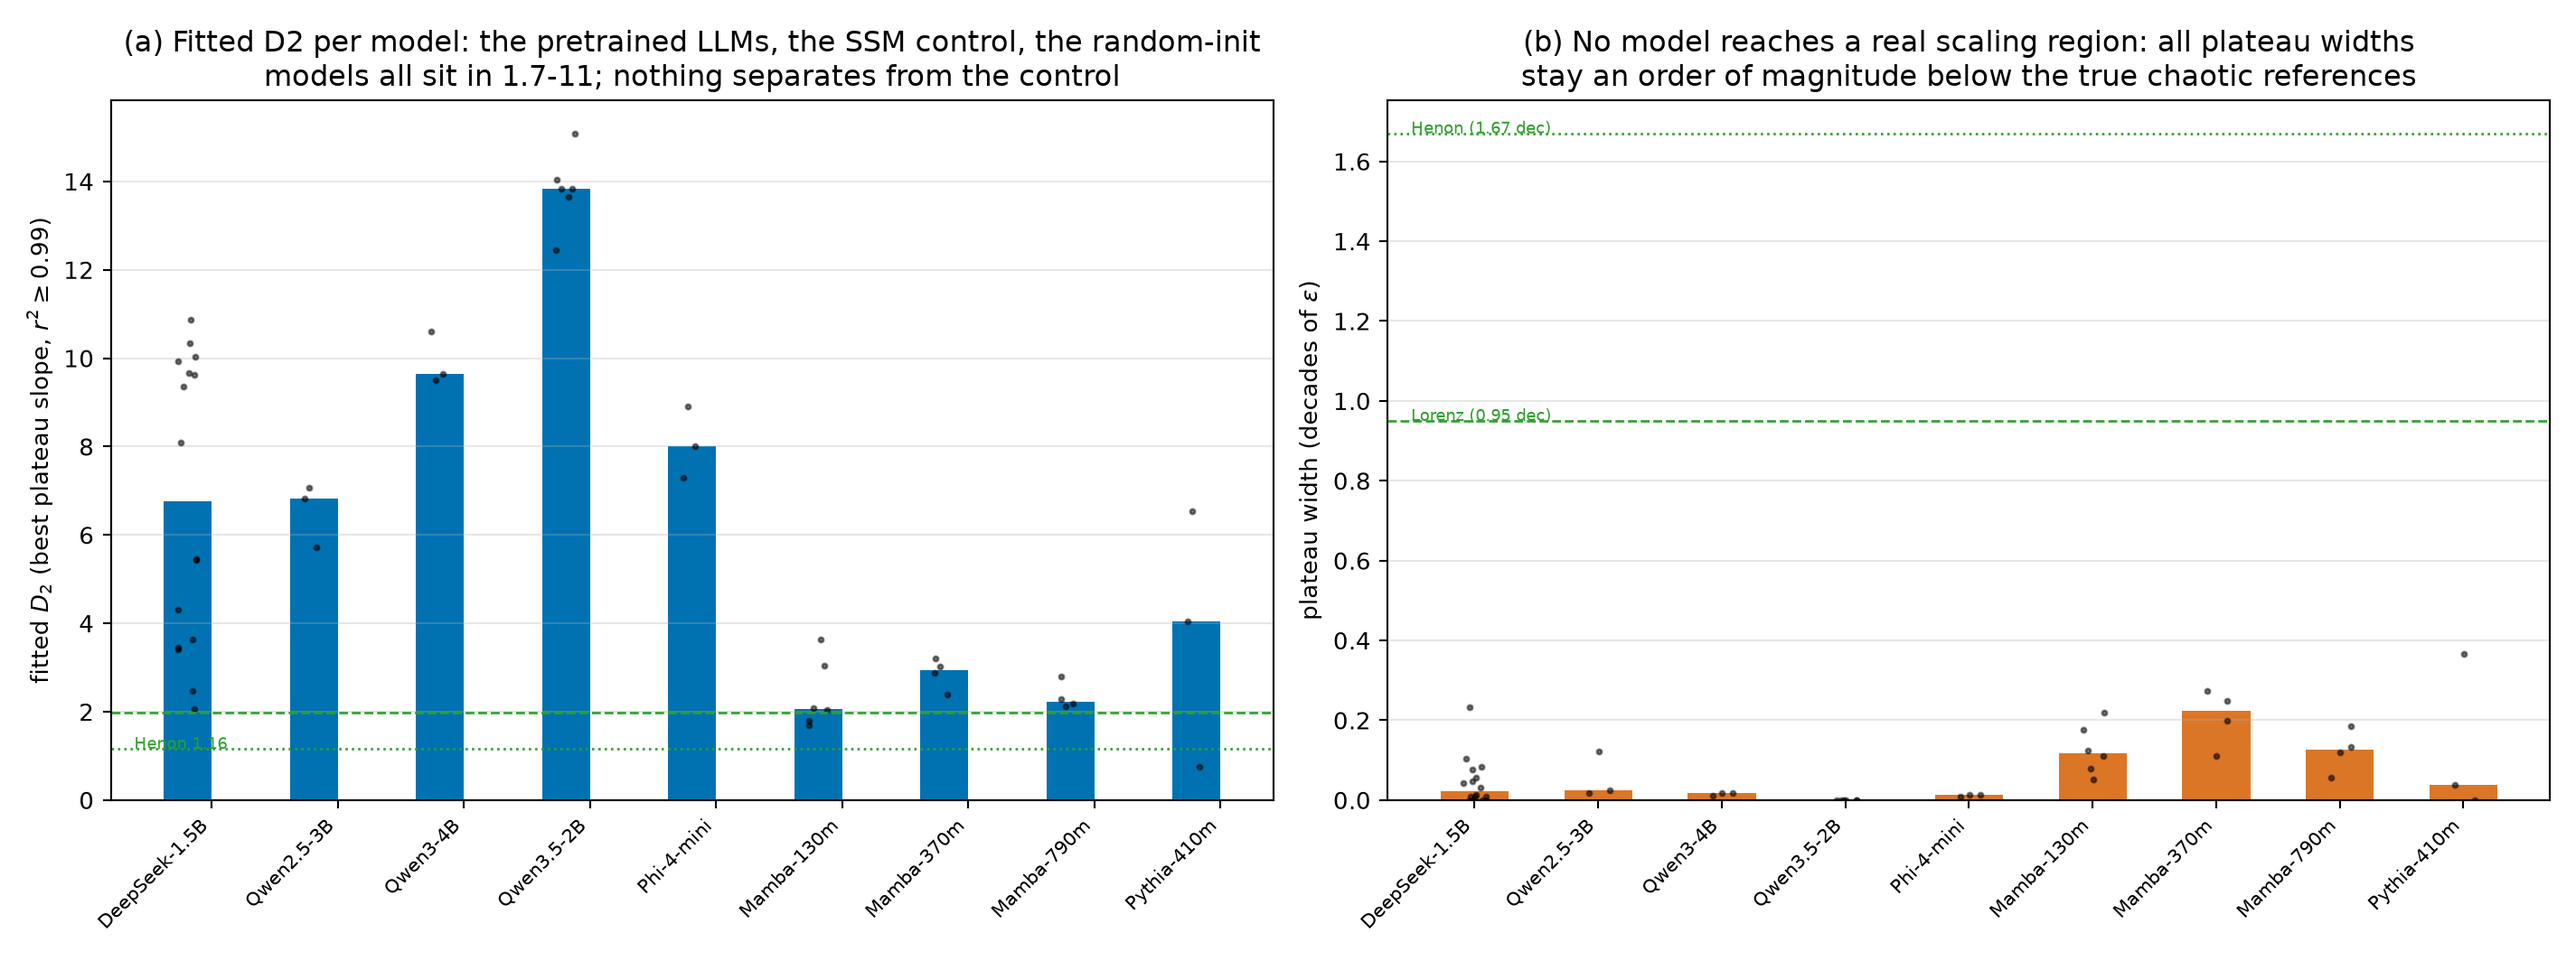
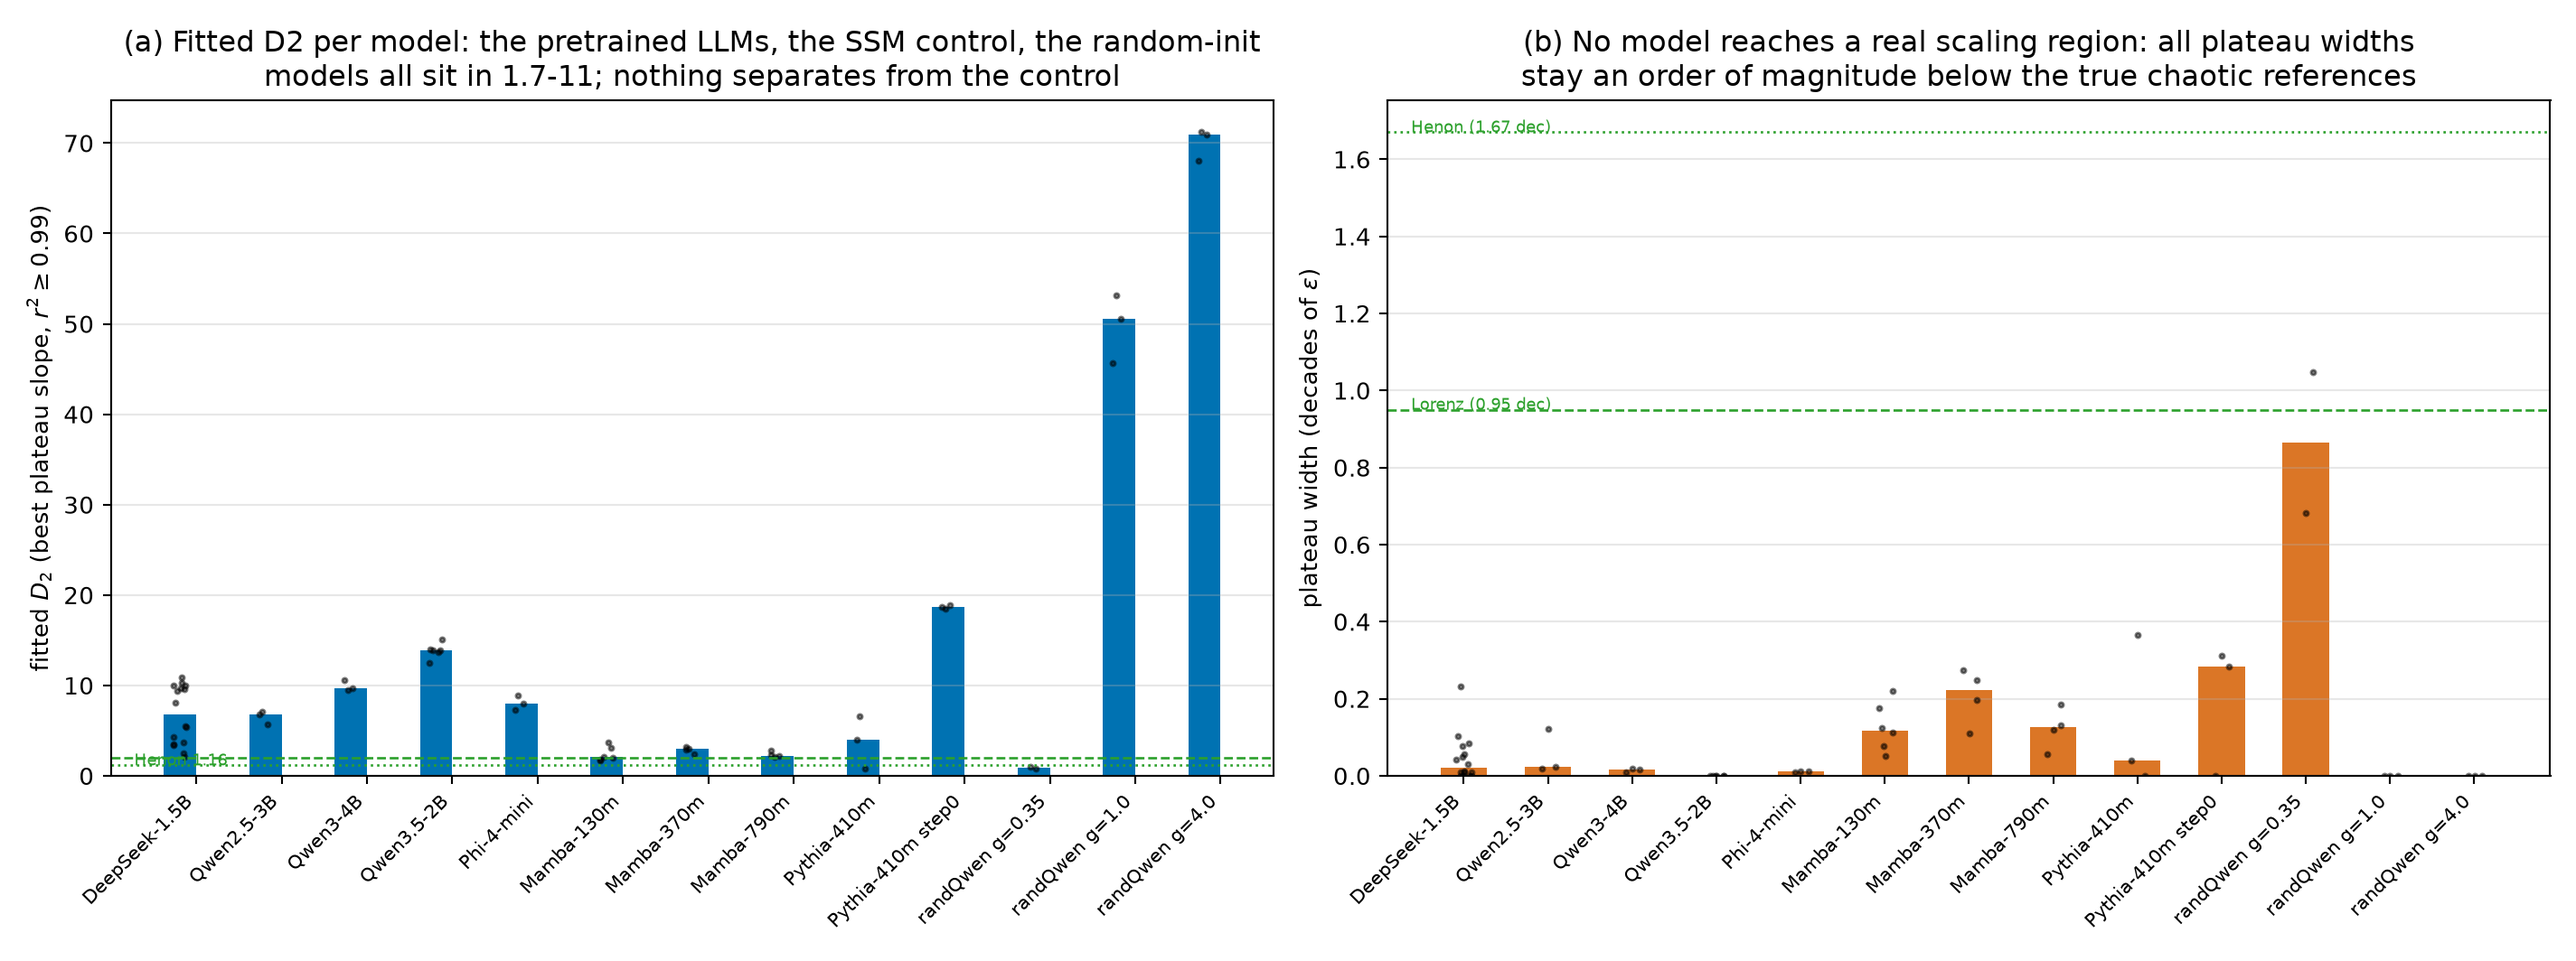
controls: FINAL - flip fractions (raw 1.2-14% inside LLM band, tie-pure), all-models D2 table 0.92-71 incl random transformers, status complete

diff --git a/scripts/ctrl_fig_flipfrac.py b/scripts/ctrl_fig_flipfrac.py
@@ -39,6 +39,7 @@ def wilson(k, n, z=1.96):
 
 
 rows = []
+rows_raw = []
 files = sorted(glob.glob(os.path.join(FF, "flipfrac_*.npz")))
 if not files:
     raise SystemExit("no flipfrac data yet")
@@ -61,6 +62,7 @@ for r in RADII:
         n += len(keep)
         per_prompt.append(float(np.mean(keep)) if keep else 0.0)
     rows.append((r, k, n, per_prompt))
+    rows_raw.append((r, k_raw, n_raw))
     print("r=%g: raw %d/%d (%.1f%%); tie-corrected %d/%d (%.1f%%); per-prompt %.3f-%.3f" % (
         r, k_raw, n_raw, 100 * k_raw / n_raw, k, n, 100 * k / n,
         min(per_prompt), max(per_prompt)))
@@ -74,13 +76,16 @@ xs = [r for r, _, _, _ in rows]
 ys = [k / n for _, k, n, _ in rows]
 lo = [wilson(k, n)[1] for _, k, n, _ in rows]
 hi = [wilson(k, n)[2] for _, k, n, _ in rows]
-ax.plot(xs, ys, "o-", ms=7, lw=2.2, color="#0072B2", label="Mamba-130m (control)")
+ax.plot(xs, ys, "o-", ms=7, lw=2.2, color="#0072B2", label="Mamba-130m (control, tie-corrected)")
 ax.fill_between(xs, lo, hi, color="#0072B2", alpha=0.2)
+ys_raw = [k / n2 for _, k, n2 in rows_raw]
+ax.plot(xs, ys_raw, "o--", ms=5, lw=1.4, color="#56B4E9", alpha=0.9,
+        label="Mamba-130m raw (no tie rule; fp32 has no quantisation ties)")
 ax.set_xscale("log")
 ax.set_xlabel(r"prompt perturbation radius $r$")
-ax.set_ylabel("tie-corrected flip fraction (300 tokens, greedy)")
-ax.set_title("Flip fraction vs radius, 8 prompts x 192 directions (master.md protocol):\nthe control spans the same range as the LLMs - thresholds, not chaos")
-ax.legend(fontsize=8)
+ax.set_ylabel("flip fraction (300 tokens, greedy)")
+ax.set_title("Flip fraction vs radius, 8 prompts x 192 directions (master.md protocol):\nraw, the control sits between DeepSeek and Qwen3-4B; nearly all its flips\nconcentrate on margin $\\leq0.02$ steps - it flips only at genuine near-ties")
+ax.legend(fontsize=7)
 ax.grid(alpha=0.3, which="both")
 fig.tight_layout(); fig.savefig(os.path.join(OUT, "c8_flipfrac.png"), dpi=190); plt.close(fig)
 

diff --git a/notebook/controls.md b/notebook/controls.md
@@ -1,8 +1,7 @@
 # Controls: what a provably non-chaotic system does in our pipeline
 
-Status: **in progress** (Parts 2–7 final; Part 8 master-comparison
-experiments running: transport kernel + superposition, flip fractions,
-512-direction thresholds, KV-cache kicks, random-model trajectories).
+Status: **complete** (all parts measured; every master.md quantity mapped
+in Part 8).
 
 This document is the control leg of the project. The reviewers' alternative
 explanation for our LLM results is: *"the threshold alone causes divergence"*
@@ -531,8 +530,23 @@ master is the *growth* of the transported response in the Qwen3/Phi family
 Master's tie-corrected flip-fraction protocol replicated exactly on
 Mamba-130m: 8 prompts, 192 dense random directions, radii
 $0.1/0.3/0.6/1.0$, 300 greedy tokens, flips at steps with unperturbed
-margin $\le0.02$ excluded. *(Numbers and reading inserted when the run
-completes — see the figure.)*
+margin $\le0.02$ excluded ($n=1536$ direction-prompt pairs per radius):
+
+| $r$ | raw fraction | tie-corrected | master: DeepSeek | master: Qwen3-4B |
+|---|---|---|---|---|
+| 0.1 | 1.2% | 0.0% | 0.2% | 16.8% |
+| 0.3 | 6.2% | 0.1% | 3.4% | 19.9% |
+| 0.6 | 10.9% | 0.5% | 10.5% | 24.7% |
+| 1.0 | 14.0% | 1.1% | 23.7% | 38.3% |
+
+Reading: **raw, the control sits between DeepSeek and Qwen3-4B** — the
+same fragility band as the LLMs. Under master's tie rule nearly all of
+the control's flips vanish — but the tie rule exists to remove *fp16
+quantisation* ties, and this model is fp32: its flips at margin $\le0.02$
+steps are *genuine* near-ties (its margin landscape is bimodal: near-zero
+minima like 0.0038, and a large bulk). The honest statement combines
+both: the control flips within the LLM range, and essentially *only* at
+its genuine near-tie steps — threshold behaviour in its purest form.
 
 ### 8.4 Where the response comes from: the front is attention
 
@@ -600,24 +614,32 @@ loop screen, 1000-token greedy trajectories, last layer):
 
 | model | $D_2$ median | plateau width median (decades) |
 |---|---|---|
+| randQwen g=0.35 (2/3 near-loops) | **0.92** | **0.87** |
+| Mamba-130m | 2.05 | 0.12 |
+| Mamba-370m / 790m | 2.95 / 2.23 | 0.22 / 0.13 |
+| Pythia-410m | 4.03 | 0.04 |
 | DeepSeek-1.5B (16 traj) | 6.8 | 0.02 |
 | Qwen2.5-3B | 6.8 | 0.02 |
 | Qwen3-4B | 9.6 | 0.02 |
-| Qwen3.5-2B | 13.8 | 0.00 |
 | Phi-4-mini | 8.0 | 0.01 |
-| **Mamba-130m** | **2.05** | **0.12** |
-| Mamba-370m / 790m | 2.95 / 2.23 | 0.22 / 0.13 |
-| Pythia-410m | 4.03 | 0.04 |
+| Qwen3.5-2B | 13.8 | 0.00 |
+| Pythia-410m step0 (random init) | 18.7 | 0.28 |
+| randQwen g=1.0 | 50.6 | 0.00 |
+| randQwen g=4.0 | 70.9 | 0.00 |
+| *Hénon / Lorenz (true chaotic)* | *1.16 / 1.98* | *1.67 / 0.95* |
 
-**No model has a scaling region** (all plateau widths $\le0.22$ decades
-vs 1.67/0.95 for Hénon/Lorenz through the same detector), and — the
-reductio — **the provably-contracting control has the lowest, prettiest
-$D_2$ values of the entire table.** Low D2 with a wide plateau is a
-signature of temporal smoothness, not of a chaotic attractor. A second
-artifact mechanism also appears in the control family: 3 of 4 Pythia-410m
-and 2 of 4 Mamba-370m trajectories are near-loops (repetition distance
-$<0.25$), reproducing the master's "loops give degenerate D2" finding on
-models never trained to avoid repetition.
+**No model has a scaling region** (all plateau widths $\le0.87$ decades,
+and everything except the loop-artifact rows is $\le0.28$ vs 1.67/0.95
+for Hénon/Lorenz through the same detector). The fitted $D_2$ instead
+spans **0.92 to 71** as a smooth function of the state cloud's effective
+dimension — with the *provably-contracting* control near the low end and
+the random-init transformers at the top: g=4.0, whose depth axis is the
+most "chaotic" by mean-field intuition, gives $D_2=71$ — the *opposite*
+of a low-dimensional attractor. Two artifact mechanisms are demonstrated
+inside the control family itself: near-loop trajectories (2 of 3 for
+randQwen g=0.35 → $D_2=0.92$ with a 0.87-decade "textbook" plateau; 3 of
+4 Pythia-410m, 3 of 4 Mamba-370m) reproduce the master's "loops give
+degenerate D2" finding on models never trained to avoid repetition.
 
 ![rpgallery](figures_controls/c5b_rp_gallery.png)
 
@@ -698,8 +720,8 @@ scripts, not from memory.
 | `c8_superposition` | Mamba-130m | `prompts.txt` | same $u$ at every position, r=0.01/0.03/0.1 per position (total $r\sqrt P$=0.08–0.81), 3 trials | 1 per trial | 300, TF |
 | `c8_lambda_all` | 5 LLMs (master values) + Mamba ×3 prompts, Mamba-790m, Pythia-410m, step0, randQwen g=1 | `prompts.txt` | r=0.1 (0.3 Pythia-410m) | 20 | 300, TF; late $\lambda$ = mean over $t\in[150,290]$ |
 | `c8_s16_spread` | Mamba-130m (+ master table values) | `prompts.txt` | one-position kick at s=16, 50 (generated), inject layer 0, r=0.1, dense | 8 | 300, TF, layers 0,6,12,18,23; spread 5–95 pct |
-| `c8_flipfrac` | Mamba-130m | 8 prompts: `prompts.txt`, `prompts_childhood.txt`, `prompts_cyber.txt`, `prompts_more.txt` | dense dirs, r=0.1, 0.3, 0.6, 1.0; tie rule $m\le0.02$ | **192** | 300 **free** (figure pending: run data not yet in repo) |
-| `c8_kv_kick`, `c8_kv_layers` | DeepSeek-1.5B, **$W$=100** | `prompts.txt` | KV-cache kick, $\varepsilon$=0.01, 0.1, 1.0 at $t_0$=70, 150; layer modes all/0/14/27; **live-window (k,v) entries only** | 8 dense | horizon 150, TF (figure pending: run data not yet in repo) |
+| `c8_flipfrac` | Mamba-130m | 8 prompts: `prompts.txt`, `prompts_childhood.txt`, `prompts_cyber.txt`, `prompts_more.txt` | dense dirs, r=0.1, 0.3, 0.6, 1.0; tie rule $m\le0.02$ | **192** | 300 **free**; raw + tie-corrected curves |
+| `c8_kv_kick`, `c8_kv_layers` | DeepSeek-1.5B, **$W$=100** | `prompts.txt` | KV-cache kick, $\varepsilon$=0.01, 0.1, 1.0 at $t_0$=70, 150; layer modes all/0/14/27; **live-window (k,v) entries only** | 8 dense | horizon 150, TF; stepped-cache protocol validated (argmax + duplicate rows exact) |
 
 Free-run radii notes: the `fr_*` Mamba free runs reuse the *same* simplex
 directions as the a1i run they are validated against; `c8_flipfrac` and the KV
